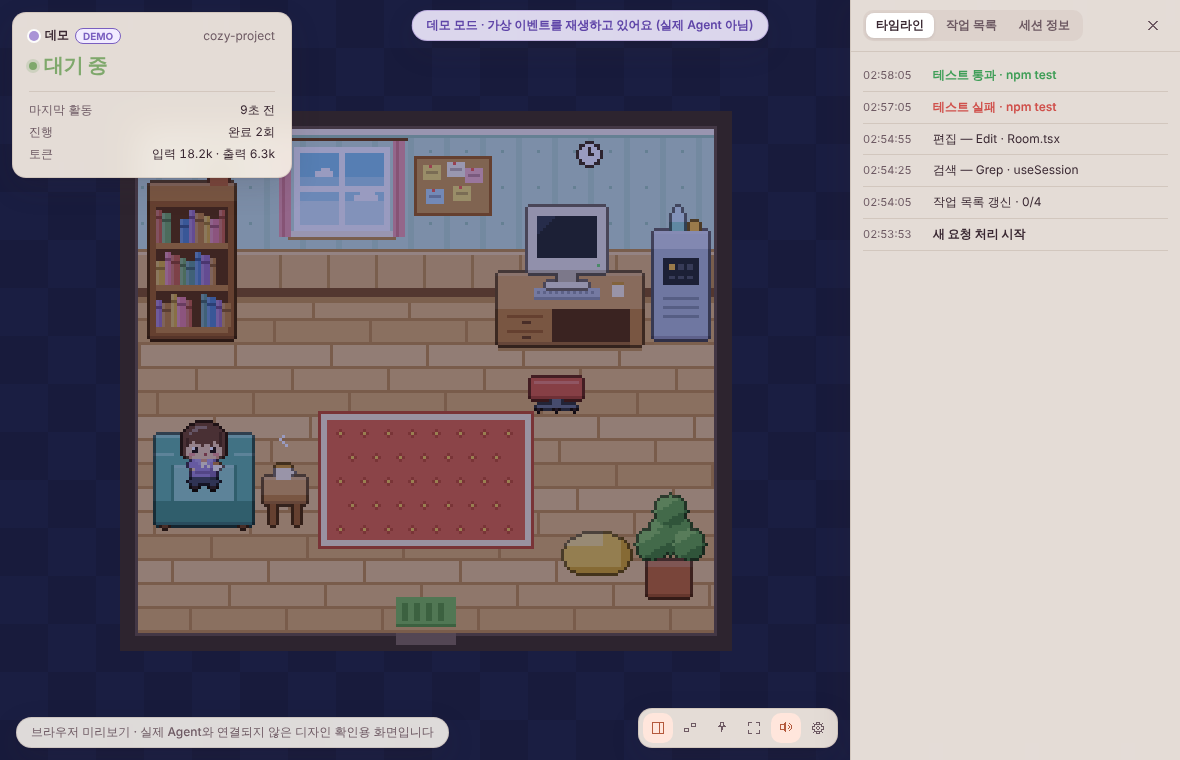
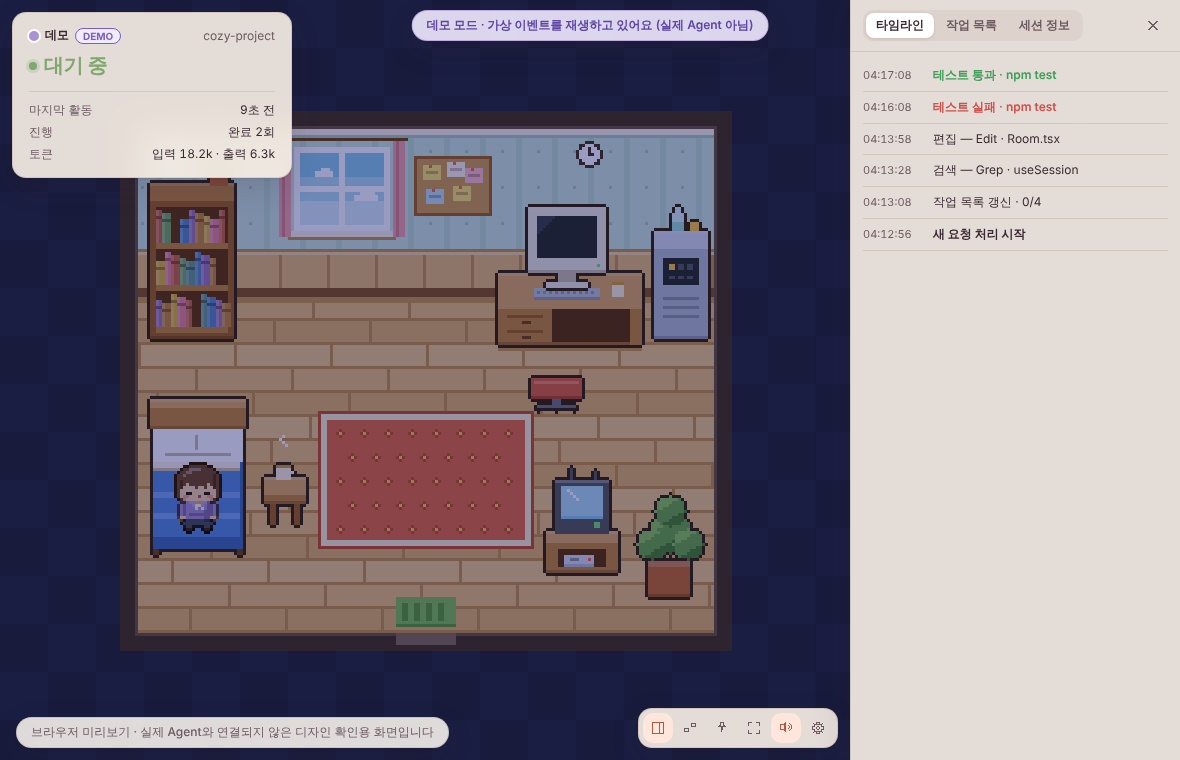
Pokemon-style pass: shiba and tabby cat critters, bed and TV, dark outlines
Critter bodies are authored as a left half and mirrored so faces are exactly
symmetric; rim shading and the outline are applied automatically. Furniture
now uses a dark outline; the armchair becomes a bed and the bean bag a CRT TV
with a console.

Claude-Session: https://claude.ai/code/session_01THHRgUBihPzEjceE1XAhkK

diff --git a/app/src/game/skin.ts b/app/src/game/skin.ts
@@ -125,7 +125,7 @@ export function reduce(img: HTMLImageElement): Skin {
 
 /** built-in original critters (tools/art/gen_critters.py); stored in settings as 'builtin/<id>' */
 export const BUILTIN_CRITTERS: [string, string][] = [
-  ['hamster', '햄스터'], ['rabbit', '토끼'], ['kitten', '회색 고양이'], ['chick', '병아리'],
+  ['shiba', '시바견'], ['cat', '고등어 고양이'],
 ];
 
 function loadUrl(url: string): Promise<Skin> {

diff --git a/tools/art/gen_critters.py b/tools/art/gen_critters.py
@@ -1,104 +1,132 @@
-"""Original critter characters (single still images, 1 art pixel = 1 px).
+"""Built-in critter characters (single still images, 1 art pixel = 1 px).
 
-Each critter is one front-facing pose; the app animates it with hops and bobs, the
-same way it animates a custom character PNG. Fills only; the dark outline is added
-around the silhouette. Run `python3 gen_critters.py` (writes app/public/assets/critters).
+Each body is authored as its left half and mirrored, so faces are exactly symmetric;
+add-ons such as tails are placed afterwards. Rim shading (light top-left, dark
+bottom-right) and the dark outline are applied automatically. The app animates the
+still with hops and bobs. Run `python3 gen_critters.py` (writes app/public/assets/critters).
 """
 import os
-from pix import Spr, from_map, hexc
+from pix import Spr, hexc
 
-OUT = os.path.join(os.path.dirname(__file__), '..', '..', 'app', 'public', 'assets', 'critters')
-INK = hexc('#3b2a2a')
+INK = hexc('#2f2326')
 
-COMMON = {'k': hexc('#2b1f22'), 'e': hexc('#2b2230'), 'h': hexc('#ffffff'), 'p': hexc('#f59fae'), 'n': hexc('#c95f73'), 's': hexc('#f7c9c0')}
+def mirror(half, odd=False):
+    out = []
+    for r in half:
+        tail = r[::-1][1:] if odd else r[::-1]
+        out.append(r + tail)
+    return out
 
+def render(rows, pal, tones, extra=()):
+    """rows -> Spr with rim shading. tones: letter -> (light, base, dark) applied to that letter"""
+    h, w = len(rows), len(rows[0])
+    g = [list(r) for r in rows]
+    for (x, y, ch) in extra:
+        g[y][x] = ch
+    filled = lambda x, y: 0 <= x < w and 0 <= y < h and g[y][x] != '.'
+    s = Spr(w + 2, h + 2)
+    for y in range(h):
+        for x in range(w):
+            ch = g[y][x]
+            if ch == '.':
+                continue
+            c = pal[ch]
+            if ch in tones:
+                lt, dk = tones[ch]
+                if (not filled(x + 1, y) and x > w // 2) or not filled(x, y + 1) or (x > w * 0.72 and not filled(x + 2, y)):
+                    c = dk
+                elif not filled(x, y - 1) and x < w * 0.6:
+                    c = lt
+            s.put(x + 1, y + 1, c)
+    s.outline(color=INK)
+    return s
+
+
+X = {'k': INK, 'e': hexc('#2a1d22'), 'h': hexc('#ffffff'), 'n': hexc('#2a1d22'), 'p': hexc('#f7a3a8'), 'm': hexc('#d9607a')}
+
+def eyes_fix(rows, w, cols, row):
+    """mirrored right eye has its highlight on the outside: move it to the top-left"""
+    g = [list(r) for r in rows]
+    a, b = w - 1 - cols[0], w - 1 - cols[1]   # right eye columns (b < a)
+    g[row][b], g[row][a] = 'h', 'e'
+    return [''.join(r) for r in g]
+
+SHIBA = mirror([
+    "..o........",
+    ".ooO.......",
+    ".oiOO......",
+    ".oiiOO.....",
+    ".oiiOOOOOOO",
+    "ooOOOOOOOOO",
+    "oOOOOWOOOOO",
+    "OOOOOOOOOOO",
+    "OOOOOheOOOO",
+    "OOOOWeeWWWW",
+    "OOWWWeeWWWW",
+    "OWWWWWWWWnn",
+    "OWWpWWWWWWn",
+    ".WWWWWWWkWW",
+    "..WWWWWWWkk",
+    "...OWWWWWWW",
+    "...OOWWWWWW",
+    "...OOWWWWWW",
+    "...OOWWWWWW",
+    "..OOWWWWWWk",
+    "..OOWWWWWWk",
+    "...OOWWWWWk",
+], odd=True)
+SHIBA = eyes_fix(SHIBA, 21, (5, 6), 8)
+dog_pal = {**X, 'O': hexc('#e8944a'), 'o': hexc('#f4b26a'), 'W': hexc('#fff3e2'), 'i': hexc('#f6c3a8')}
+dog_t = {'O': (hexc('#f4b26a'), hexc('#c4712f')), 'W': (hexc('#ffffff'), hexc('#e6cfb2'))}
+
+CAT = mirror([
+    ".G.........",
+    ".GG........",
+    ".GpG.......",
+    ".GppG......",
+    ".GppGGGsGsG",
+    "GGGGGGGGsGs",
+    "sGGGGGGGGsG",
+    "GGGGGGGGGGG",
+    "sGGGGheGGGG",
+    "GGGGGeeGGGG",
+    "sGWWWggWWWW",
+    "GWWWWWWWWWm",
+    "GWWpWWWWWWk",
+    ".WWWWWWWWkW",
+    "..WWWWWWWWW",
+    "...GWWWWWWW",
+    "...sGWWWWWW",
+    "...GGWWWWWW",
+    "...sGWWWWWW",
+    "..GGGWWWWWk",
+    "..GGWWWWWWk",
+    "...GGWWWWWk",
+], odd=True)
+CAT = eyes_fix(CAT, 21, (5, 6), 8)
+cat_pal = {**X, 'G': hexc('#b9a189'), 's': hexc('#7a604d'), 'W': hexc('#fffaf3'), 'g': hexc('#8fcf74')}
+cat_t = {'G': (hexc('#d2bea7'), hexc('#977e69')), 'W': (hexc('#ffffff'), hexc('#e8ddd2'))}
+
+def pad(rows, n):
+    return [r + '.' * n for r in rows]
+
+dtail = [(20, 14, 'o'), (21, 14, 'o'), (19, 15, 'O'), (20, 15, 'W'), (21, 15, 'W'), (22, 15, 'O'), (18, 16, 'O'), (19, 16, 'O'), (21, 16, 'W'), (22, 16, 'O'), (18, 17, 'O'), (19, 17, 'O'), (20, 17, 'O'), (21, 17, 'O')]
+ctail = [(18, 21, 'G'), (19, 21, 'G'), (20, 21, 'G'), (20, 20, 'G'), (21, 20, 'G'), (21, 19, 's'), (22, 19, 'G'), (21, 18, 'G'), (22, 18, 's'), (21, 17, 'G'), (22, 17, 'G'), (21, 16, 's'), (22, 16, 'G'), (21, 15, 'G')]
 CRITTERS = {
-    # golden hamster: white face and belly, golden back showing at the sides
-    'hamster': ({'G': hexc('#f0b765'), 'g': hexc('#d99a4e'), 'W': hexc('#fffaf2')}, [
-        "..GG.......GG..",
-        ".GgGGGGGGGGGgG.",
-        ".GGGGGWWWGGGGG.",
-        "GGGWWWWWWWWWGGG",
-        "GGWWWWWWWWWWWGG",
-        "GGWWkWWWWWkWWGG",
-        "GGWWkWWnWWkWWGg",
-        "GGWpWWWWWWWpWGg",
-        "GGWWWWWWWWWWWGg",
-        ".GWWWWWWWWWWWg.",
-        "WGWWWWWWWWWWWgW",
-        ".GGWWWWWWWWWgg.",
-        "..gGGGGGGGGGg..",
-        "...gg.....gg...",
-    ]),
-    # white rabbit with tall ears
-    'rabbit': ({'W': hexc('#fffaf6'), 'V': hexc('#e3d9ec')}, [
-        "...WW.....WW...",
-        "..WppW...WppV..",
-        "..WppW...WppV..",
-        "..WppW...WppV..",
-        "..WWWWWWWWWWV..",
-        ".WWWWWWWWWWWWV.",
-        "WWWWWWWWWWWWWVV",
-        "WWWWkWWWWWkWWVV",
-        "WWWWkWWnWWkWWVV",
-        "WWWpWWWWWWWpWVV",
-        ".WWWWWWWWWWWWV.",
-        "WWWWWWWWWWWWVVW",
-        ".WWWWWWWWWWWVV.",
-        "..VVVVVVVVVVV..",
-        "...VV.....VV...",
-    ]),
-    # grey tabby kitten with a tail flicking up on the right
-    'kitten': ({'G': hexc('#a7aec4'), 'g': hexc('#868da6'), 'W': hexc('#fffaf6'), 'V': hexc('#e6e0e8')}, [
-        ".G.........G.....",
-        ".GG.......GG.....",
-        ".GpGGGgGGGpG.....",
-        "GGGGGGgGGGGGG....",
-        "GGGWWWWWWWWGGG...",
-        "GGWWWWWWWWWWGG...",
-        "GWWWkWWWWWkWWG...",
-        "GWWWkWWnWWkWWG.G.",
-        "GWWpWWWWWWWpWG.Gg",
-        ".WWWWWWWWWWWWV.Gg",
-        "WWWWWWWWWWWWVVWGg",
-        ".WWWWWWWWWWWVVGg.",
-        "..GVVVVVVVVVGGg..",
-        "...GG.....GG.....",
-    ]),
-    # round yellow chick with a little tuft
-    'chick': ({'Y': hexc('#ffe27a'), 'y': hexc('#f4c64f'), 'o': hexc('#f29a4a')}, [
-        ".......Y.......",
-        "......YY.......",
-        "....YYYYYYY....",
-        "..YYYYYYYYYYY..",
-        ".YYYYYYYYYYYYy.",
-        ".YYYkYYYYYkYYy.",
-        "YYYYkYYooYkYYyy",
-        "YYYpYYYooYYpYyy",
-        "yYYYYYYYYYYYYyy",
-        "YyYYYYYYYYYYyYy",
-        ".yYYYYYYYYYYyy.",
-        "..yyYYYYYYyyy..",
-        "....yyyyyyy....",
-        "....oo...oo....",
-    ]),
+    'shiba': lambda: render(pad(SHIBA, 3), dog_pal, dog_t, dtail),
+    'cat': lambda: render(pad(CAT, 4), cat_pal, cat_t, ctail),
 }
 
 
-def build(name):
-    pal, rows = CRITTERS[name]
-    assert len({len(r) for r in rows}) == 1, name
-    art = from_map(rows, {**COMMON, **pal})
-    s = Spr(art.w + 2, art.h + 2)  # 1px margin for the outline
-    s.paste(art, 1, 1)
-    return s.outline(color=INK)
+OUT = os.path.join(os.path.dirname(__file__), '..', '..', 'app', 'public', 'assets', 'critters')
 
 
 def main():
     os.makedirs(OUT, exist_ok=True)
-    for name in CRITTERS:
-        s = build(name)
-        s.im.save(os.path.join(OUT, f'{name}.png'))
+    for f in os.listdir(OUT):
+        os.remove(os.path.join(OUT, f))
+    for name, make in CRITTERS.items():
+        make().im.save(os.path.join(OUT, f'{name}.png'))
     print('critters written:', ', '.join(CRITTERS))
 
 

diff --git a/tools/art/gen_art.py b/tools/art/gen_art.py
@@ -36,7 +36,7 @@ C = {k: hexc(v) for k, v in {
 BOOK_COLS = [hexc(h) for h in ('#d06a5f', '#5f8fc9', '#e3b85c', '#7fb07a', '#a77cc2', '#e98aa8', '#6b9fa0', '#c98d58')]
 
 C.update({k: hexc(v) for k, v in {
-    'frame': '#4b3a3e', 'frame_l': '#6f5a5c',
+    'outline': '#3b2a2e', 'frame': '#4b3a3e', 'frame_l': '#6f5a5c',
     'wp': '#cfeae0', 'wp_s': '#bfe1d5', 'wp_d': '#a8d2c4', 'crown': '#fff6ea',
     'wains': '#ebc18d', 'wains_d': '#c99a66', 'wains_l': '#f6d8ae', 'base': '#8a5a40',
     'fl_a': '#efc48e', 'fl_b': '#e6b87f', 'fl_c': '#f3cd9c', 'fl_seam': '#c99764', 'fl_sh': '#cf9d68',
@@ -46,6 +46,7 @@ C.update({k: hexc(v) for k, v in {
     'chair': '#e0675c', 'chair_d': '#b84f47', 'chair_l': '#f08e83',
     'teal': '#6cbcb0', 'teal_d': '#4f9a90', 'teal_l': '#9ad8cc',
     'bean': '#f7d06a', 'bean_d': '#e0ae45', 'bean_l': '#fde39c',
+    'blanket': '#5b8fe0', 'blanket_d': '#4371c0', 'blanket_l': '#7eaaf0', 'tv': '#5c6072',
     'bezel': '#f2ede4', 'bezel_d': '#cfc6b8', 'mach': '#b9c3d6', 'mach_d': '#8f9ab0', 'mach_l': '#d9e0ec',
 }.items()})
 
@@ -230,19 +231,21 @@ def make_furniture():
     s.rect(184, 34, 4, 6, C['glass']); s.rect(184, 37, 4, 3, C['code1']); s.rect(185, 32, 2, 2, C['glass'])
     s.rect(190, 37, 3, 3, C['led_a'])
 
-    # armchair facing the viewer
-    s = furn('sofa', 138)
-    s.rect(12, 108, 32, 12, C['teal'])
-    s.rect(12, 108, 32, 1, C['teal_l'])
-    s.rect(18, 118, 20, 12, C['teal_l'])
-    s.rect(18, 118, 20, 1, shade(C['teal_l'], 1.15))
-    for ax in (12, 38):
-        s.rect(ax, 114, 6, 18, C['teal'])
-        s.rect(ax, 114, 6, 1, C['teal_l'])
-    s.rect(17, 118, 1, 12, C['teal_d']); s.rect(38, 118, 1, 12, C['teal_d'])
-    s.rect(12, 130, 32, 8, C['teal_d'])
-    s.rect(12, 137, 32, 1, shade(C['teal_d'], 0.85))
-    s.rect(14, 138, 2, 1, C['wood_d']); s.rect(40, 138, 2, 1, C['wood_d'])
+    # bed against the left side (rest spot: the character sits on its edge)
+    s = furn('sofa', 148)
+    block(s, 10, 96, 32, 3, 7, C['wood_h'], C['wood_l'])
+    s.rect(11, 106, 30, 40, C['white'])
+    s.rect(15, 107, 22, 8, C['white'])
+    s.rect(15, 114, 22, 1, C['bezel_d'])
+    s.rect(25, 108, 1, 5, C['bezel_d'])
+    s.rect(11, 117, 30, 3, C['crown'])
+    s.rect(11, 119, 30, 1, C['bezel_d'])
+    s.rect(11, 120, 30, 22, C['blanket'])
+    for y in (127, 134):
+        s.rect(11, y, 30, 2, C['blanket_l'])
+    s.rect(40, 117, 1, 25, C['blanket_d'])
+    s.rect(11, 142, 30, 4, C['blanket_d'])
+    s.rect(11, 146, 2, 2, C['wood_d']); s.rect(39, 146, 2, 2, C['wood_d'])
 
     # side table with a mug
     s = furn('table', 138)
@@ -250,14 +253,19 @@ def make_furniture():
     s.rect(50, 131, 2, 7, C['wood']); s.rect(58, 131, 2, 7, C['wood'])
     s.rect(52, 118, 5, 5, C['cream']); s.rect(52, 118, 5, 1, C['lamp_d']); s.put(57, 120, C['cream'])
 
-    # bean bag
-    s = furn('pouf', 154)
-    for y in range(140, 154):
-        for x in range(148, 170):
-            dx, dy = (x - 158.5) / 11, (y - 147.5) / 7.5
-            d = dx * dx + dy * dy
-            if d <= 1:
-                s.put(x, y, C['bean_l'] if dy < -0.45 and dx < 0.2 else C['bean_d'] if dy > 0.5 or dx > 0.7 else C['bean'])
+    # CRT TV on a low stand with a game console on the shelf
+    s = furn('tv', 154)
+    block(s, 142, 140, 24, 4, 10, C['wood_h'], C['wood_l'])
+    s.rect(146, 146, 16, 6, shade(C['wood_d'], 0.8))
+    s.rect(148, 148, 10, 4, C['mach_l']); s.rect(148, 151, 10, 1, C['mach'])
+    s.put(156, 149, C['led_r']); s.rect(150, 149, 3, 1, C['mach_d'])
+    s.rect(145, 123, 18, 18, C['tv']); s.rect(145, 123, 18, 1, shade(C['tv'], 1.3))
+    s.rect(147, 125, 14, 11, C['sky2'])
+    for i in range(4):
+        s.put(149 + i, 126 + i, C['white'])
+    s.rect(147, 135, 14, 1, C['sky1'])
+    s.rect(158, 137, 2, 2, C['led_g'])
+    s.rect(150, 119, 1, 4, C['tv']); s.rect(158, 120, 1, 3, C['tv'])
 
     # big plant in the corner
     s = furn('plant', 162)
@@ -410,7 +418,7 @@ def main():
     make_furniture()
     furniture = []
     for (name, s, base_y) in sorted(FURN, key=lambda f: f[2]):
-        s.outline(factor=0.5)
+        s.outline(color=C['outline'])
         c, x, y = s.crop()
         sprites[name] = (c, x, y)
         furniture.append({'name': name, 'base': base_y})
@@ -458,7 +466,7 @@ def main():
             'shelf': {'x': 24, 'y': 90, 'face': 'ul'},
             'board': {'x': 111, 'y': 72, 'face': 'ur'},
             'bench': {'x': 187, 'y': 90, 'face': 'ur'},
-            'sofa': {'x': 28, 'y': 139, 'face': 'dr', 'z': 13, 'sit': True},
+            'sofa': {'x': 26, 'y': 149, 'face': 'dr', 'z': 9, 'sit': True},
             'center': {'x': 100, 'y': 120, 'face': 'dr'},
             'front': {'x': 112, 'y': 152, 'face': 'dr'},
             'window': {'x': 74, 'y': 72, 'face': 'ul'},
@@ -466,8 +474,8 @@ def main():
         },
         'nodes': {
             'center': [100, 120], 'deskA': [145, 112], 'desk': [145, 99], 'shelfA': [32, 98], 'shelf': [24, 90],
-            'board': [111, 72], 'bench': [187, 90], 'benchA': [180, 110], 'sofaA': [62, 150], 'sofaB': [28, 150],
-            'sofa': [28, 139], 'front': [112, 152], 'window': [74, 72], 'plantcorner': [166, 164],
+            'board': [111, 72], 'bench': [187, 90], 'benchA': [180, 110], 'sofaA': [62, 158], 'sofaB': [26, 158],
+            'sofa': [26, 149], 'front': [112, 152], 'window': [74, 72], 'plantcorner': [166, 164],
         },
         'edges': [['center', 'deskA'], ['deskA', 'desk'], ['center', 'shelfA'], ['shelfA', 'shelf'], ['shelfA', 'window'],
                   ['window', 'board'], ['window', 'center'], ['board', 'center'], ['center', 'benchA'], ['deskA', 'benchA'],

diff --git a/README.md b/README.md
@@ -94,7 +94,7 @@ npm run app:build    # .app / .dmg 생성 → target/release/bundle/
 * 아래 오른쪽 버튼: 패널 접기/펼치기, 룸만 띄우기, 항상 위, 전체 화면, 효과음, 설정
 * **룸만 띄우기**: 창 테두리와 바깥 배경을 없애고 방만 바탕화면 위에 띄웁니다. 방을 끌어서 옮길 수 있고, 마우스를 올리면 상태 표시줄과 "창으로 보기" 버튼이 나타납니다. 메뉴 막대 메뉴에서도 켤 수 있습니다.
 * 캐릭터를 클릭하면 세션 정보 탭이 열립니다.
-* **캐릭터 바꾸기**(설정 → 캐릭터): Agent별로 기본 캐릭터, 내장 크리처(햄스터·토끼·회색 고양이·병아리), 내 캐릭터 중에서 고릅니다. 내 캐릭터는 PNG 한 장을 `~/.agent-room/characters/`에 넣으면 목록에 나타납니다. 확대된 도트 이미지도 1칸 = 1px 원래 크기로 줄이고, 단색 배경은 투명하게 처리합니다. 그림은 왼쪽을 보는 것으로 가정하고 방향에 따라 뒤집습니다. 파일은 이 컴퓨터에서만 읽고 어디에도 올리지 않습니다.
+* **캐릭터 바꾸기**(설정 → 캐릭터): Agent별로 기본 캐릭터, 내장 크리처(시바견·고등어 고양이), 내 캐릭터 중에서 고릅니다. 내 캐릭터는 PNG 한 장을 `~/.agent-room/characters/`에 넣으면 목록에 나타납니다. 확대된 도트 이미지도 1칸 = 1px 원래 크기로 줄이고, 단색 배경은 투명하게 처리합니다. 그림은 왼쪽을 보는 것으로 가정하고 방향에 따라 뒤집습니다. 파일은 이 컴퓨터에서만 읽고 어디에도 올리지 않습니다.
 * 설정: 테마(낮/노을/밤/자동), 효과음·배경음 각각 ON/OFF, 완료·승인 알림, 로그인 시 자동 실행. 고급 탭은 데모 모드, 응답 없음 판정 시간, 백업 복원, 완전 제거로 나뉘어 있습니다.
 
 ## 데모 모드와 미리보기
